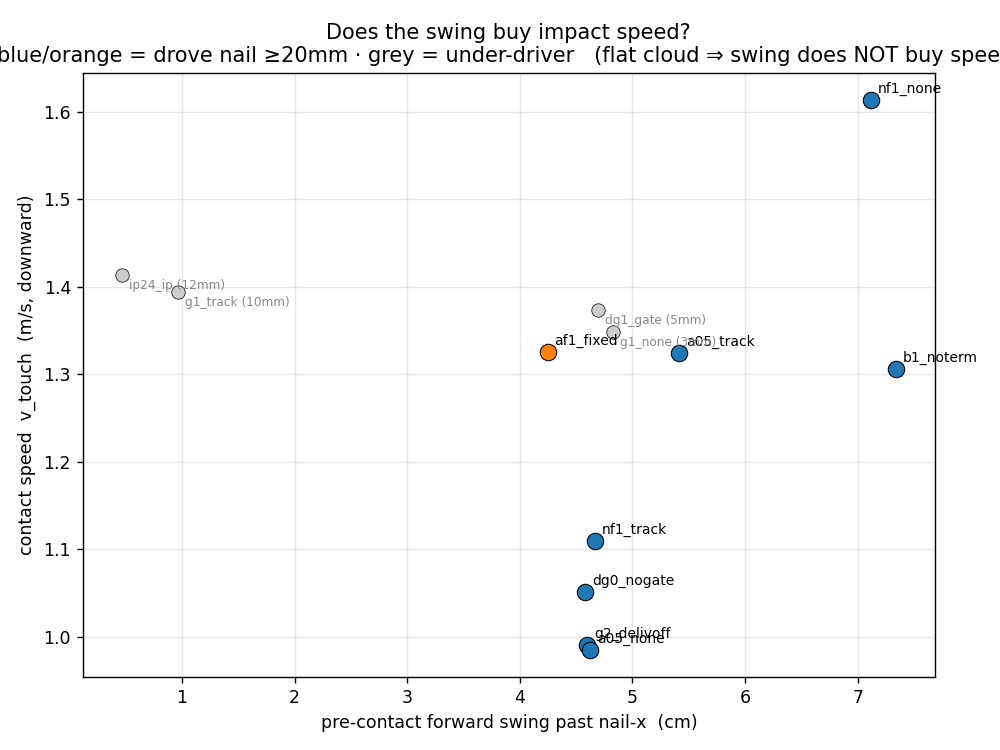
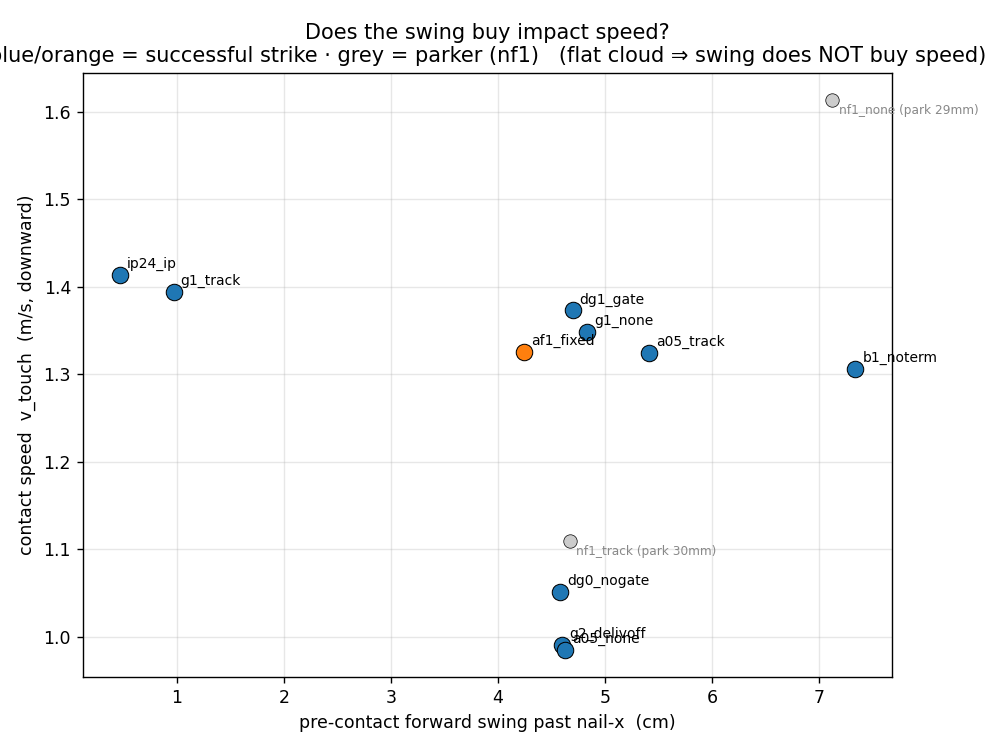
analysis(traj): fix post-auto-reset depth/success bug (Codex MUST-FIX) + regenerate
Codex traced through mjlab manager_based_rl_env: per-control-step depth/success
was sampled AFTER mjlab's end-of-step auto-reset on success, so max_nail_mm and
the success flag were undercounted -- ALL 12 wrongly looked <30mm/failed.
Fix: read clamped nail depth at SUBSTEP rate (peak survives the reset) + capture
the env.step done flag as ground-truth success. Corrected result: 10/12 succeed
at 31-32mm; only the two nf1 parkers (28.5/29.5mm, no reset) fail -- exactly the
parking-farm policies. My earlier 'g1/dg1/ip24 under-drive (3-12mm)' was purely
this artifact; they all succeed. Trajectory SHAPE / swing / v_touch conclusions
unchanged (those read valid pre-reset substeps). Also: success-based scatter
grouping, viridis relabeled 'normalized time', physics_dt recorded in JSON.
Gemini caught the misleading swing metric; Codex caught this correctness bug.

diff --git a/docs/results/assets/2026-07-20_policy_videos/trace_head_trajectories.py b/docs/results/assets/2026-07-20_policy_videos/trace_head_trajectories.py
@@ -49,6 +49,7 @@ rc = SceneEntityCfg("robot", site_names=(HAMMER_HEAD_SITE_NAME,)); rc.resolve(ba
 nc = SceneEntityCfg("nail_block", site_names=("nail_top",)); nc.resolve(base.scene)
 head = lambda: robot.data.site_pos_w[0, rc.site_ids].squeeze(0).tolist()
 depth_mm = lambda: float(nail.data.joint_pos[0, 0]) * 1000.0
+dt = float(base.physics_dt)  # 2 ms substep period (recorded in JSON for provenance)
 
 results = {}
 n0 = None
@@ -68,27 +69,33 @@ for label, prefix in ARMS:
     obs, _ = env.reset()
     nt = nail.data.site_pos_w[0, nc.site_ids].squeeze(0).tolist()
     if n0 is None: n0 = nt
-    sub = []  # substep head path
+    # substep path: [x, y, z, contact, clamped_nail_mm]. Depth is read at SUBSTEP rate and clamped to
+    # the physical stop (matches the termination's clamped_nail_depth) so the peak survives mjlab's
+    # end-of-step auto-reset (per-control-step sampling reads the POST-reset 0 and undercounts — Codex).
+    sub = []
     orig = base.metrics_manager.compute_substep
     def rec():
         orig(); h = head()
-        sub.append([h[0], h[1], h[2], bool((sensor.data.found > 0).any())])
+        cd = min(max(float(nail.data.joint_pos[0, 0]), 0.0), 0.032) * 1000.0
+        sub.append([h[0], h[1], h[2], bool((sensor.data.found > 0).any()), cd])
     base.metrics_manager.compute_substep = rec
-    ctrl = []  # per control step: (x,y,z,nail_mm,contact)
+    ctrl = []; succeeded = False  # done flag from env.step = ground-truth success (pre-auto-reset)
     for k in range(1, 16):
         with torch.inference_mode():
             a = policy(obs)
-        obs = env.step(a)[0]
-        h = head()
+        out = env.step(a); obs = out[0]
+        done = out[2][0]; succeeded = succeeded or bool(done.item() if hasattr(done, "item") else done)
+        h = head()  # NOTE: post-step read; on the terminating step this is the POST-reset pose (ctrl only)
         ctrl.append([h[0], h[1], h[2], depth_mm(), bool((sensor.data.found > 0).any())])
         if int(base.episode_length_buf[0]) == 0:
-            break
+            break  # within 15 steps a done is nail_driven SUCCESS, not the 1000-step timeout
     base.metrics_manager.compute_substep = orig
-    maxd = max(r[3] for r in ctrl)
-    results[label] = dict(ckpt=ckpt.split("z1_hammer/")[1], substep=sub, ctrl=ctrl,
-                          nail_top=nt, max_nail_mm=maxd, success=maxd >= 30.0, n_ctrl=len(ctrl))
-    print(f"[ok] {label:12s} steps={len(ctrl):2d} max_nail={maxd:5.1f}mm "
-          f"success={maxd>=30.0} substeps={len(sub)}")
+    maxd = max(s[4] for s in sub)  # substep peak (pre-reset) — the true max depth reached
+    results[label] = dict(ckpt=ckpt.split("z1_hammer/")[1], substep=sub, ctrl=ctrl, nail_top=nt,
+                          max_nail_mm=maxd, success=succeeded, reset_in_window=len(ctrl) < 15,
+                          n_ctrl=len(ctrl), physics_dt=dt)
+    print(f"[ok] {label:12s} steps={len(ctrl):2d} peak_nail={maxd:5.1f}mm "
+          f"success(done)={succeeded} substeps={len(sub)}")
 
 json.dump(dict(nail_top=n0, arms=results), open(OUT, "w"))
 print(f"\n-> {OUT}  ({len(results)} policies traced)")

diff --git a/docs/results/assets/2026-07-20_policy_videos/swing_vs_speed.py b/docs/results/assets/2026-07-20_policy_videos/swing_vs_speed.py
@@ -14,22 +14,23 @@ d = json.load(open(IN)); arms = d["arms"]; nail_x = d["nail_top"][0]
 
 rows = []
 for label, a in arms.items():
-    sub = a["substep"]  # [x,y,z,contact]
+    sub = a["substep"]  # [x,y,z,contact,clamped_mm]
+    ok = a["success"]  # ground-truth done flag (survives mjlab auto-reset)
     fc = next((i for i, p in enumerate(sub) if p[3]), None)
     if fc is None or fc < 1:
-        rows.append((label, a["max_nail_mm"], float("nan"), float("nan"), None)); continue
+        rows.append((label, a["max_nail_mm"], float("nan"), float("nan"), None, ok)); continue
     v_touch = (sub[fc - 1][2] - sub[fc][2]) / DT          # downward speed at contact onset
     swing_pre = max(p[0] for p in sub[:fc + 1]) - nail_x    # forward excursion BEFORE contact
-    rows.append((label, a["max_nail_mm"], swing_pre * 100, v_touch, fc))
+    rows.append((label, a["max_nail_mm"], swing_pre * 100, v_touch, fc, ok))
 
 rows.sort(key=lambda r: (-(r[3] if r[3] == r[3] else -1)))
-print(f"{'policy':13s} {'depth_mm':>8} {'swing_pre_cm':>12} {'v_touch_m/s':>11} {'contact@substep':>15}")
-for label, depth, sw, vt, fc in rows:
-    print(f"{label:13s} {depth:8.1f} {sw:12.1f} {vt:11.3f} {str(fc):>15}")
+print(f"{'policy':13s} {'peak_mm':>7} {'success':>7} {'swing_pre_cm':>12} {'v_touch_m/s':>11} {'contact@substep':>15}")
+for label, depth, sw, vt, fc, ok in rows:
+    print(f"{label:13s} {depth:7.1f} {str(ok):>7} {sw:12.1f} {vt:11.3f} {str(fc):>15}")
 
-# scatter: pre-contact swing vs contact speed (drivers = drove >=20mm), labelled
-good = [(l, sw, vt, depth) for (l, depth, sw, vt, fc) in rows if vt == vt and depth >= 20]
-weak = [(l, sw, vt, depth) for (l, depth, sw, vt, fc) in rows if vt == vt and depth < 20]
+# scatter: pre-contact swing vs contact speed, split by ground-truth success (done flag)
+good = [(l, sw, vt, depth) for (l, depth, sw, vt, fc, ok) in rows if vt == vt and ok]
+weak = [(l, sw, vt, depth) for (l, depth, sw, vt, fc, ok) in rows if vt == vt and not ok]
 fig, ax = plt.subplots(figsize=(8, 6))
 for (l, sw, vt, depth) in good:
     ax.scatter(sw, vt, s=90, c="#1f77b4" if l != "af1_fixed" else "#ff7f0e", zorder=3,
@@ -37,12 +38,12 @@ for (l, sw, vt, depth) in good:
     ax.annotate(l, (sw, vt), fontsize=8, xytext=(4, 4), textcoords="offset points")
 for (l, sw, vt, depth) in weak:
     ax.scatter(sw, vt, s=60, c="#cccccc", zorder=2, edgecolor="k", lw=0.4)
-    ax.annotate(f"{l} ({depth:.0f}mm)", (sw, vt), fontsize=7, color="#888",
+    ax.annotate(f"{l} (park {depth:.0f}mm)", (sw, vt), fontsize=7, color="#888",
                 xytext=(4, -8), textcoords="offset points")
 ax.set_xlabel("pre-contact forward swing past nail-x  (cm)")
 ax.set_ylabel("contact speed  v_touch  (m/s, downward)")
 ax.set_title("Does the swing buy impact speed?\n"
-             "blue/orange = drove nail ≥20mm · grey = under-driver   "
+             "blue/orange = successful strike · grey = parker (nf1)   "
              "(flat cloud ⇒ swing does NOT buy speed)")
 ax.grid(alpha=0.3)
 fig.tight_layout(); fig.savefig(f"{OUTDIR}/swing_vs_speed.png", dpi=125)

diff --git a/docs/results/assets/2026-07-20_policy_videos/plot_head_trajectories.py b/docs/results/assets/2026-07-20_policy_videos/plot_head_trajectories.py
@@ -46,7 +46,7 @@ for ax, label in zip(axes.flat, order):
     ax.axvline(nail_x, color="#bbbbbb", ls=":", lw=0.8, zorder=0)
     # swing excursion (pre-contact only)
     fwd = pre_swing(a)
-    ok = a["max_nail_mm"] >= 30.0
+    ok = a.get("success", a["max_nail_mm"] >= 30.0)  # ground-truth done flag
     tag = "★ " if label == "af1_fixed" else ""
     ax.set_title(f"{tag}{label}   depth {a['max_nail_mm']:.0f}mm"
                  f"\nfwd-swing {fwd*100:+.1f}cm", fontsize=10.5,
@@ -56,7 +56,7 @@ for ax, label in zip(axes.flat, order):
 for ax in axes.flat[len(order):]:
     ax.axis("off")
 fig.suptitle("Hammer-head trajectory (x–z side view) across July policies — identical fixed reset (seed 12345)\n"
-             "green=start · viridis=time · red=in-contact · brown ▽=nail top   "
+             "green=start · viridis=normalized time (per panel) · red=in-contact · brown ▽=nail top   "
              "(‘fwd-swing’ = how far past the nail-x the head arcs before striking)",
              fontsize=12.5)
 fig.text(0.5, 0.02, "forward  x (m) →", ha="center", fontsize=11)
